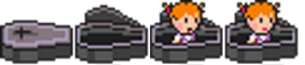
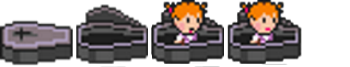
Updated Coffin Sprite.

diff --git a/hh-game/js/states/Preload.js b/hh-game/js/states/Preload.js
@@ -37,7 +37,7 @@ class Preload extends Phaser.State {
         this.game.load.spritesheet('blackhole', 'img/circle.png', 100, 100); 
         this.game.load.spritesheet('circle', 'img/circle.png', 100, 100);    
         this.game.load.spritesheet('axe', 'img/pickaxe_axe.png', 32, 64);
-        this.game.load.spritesheet('coffin', 'img/coffin2.png', 75, 67);
+        this.game.load.spritesheet('coffin', 'img/coffin.png', 75, 67);
         this.game.load.image('hole', 'img/hole.png');
 
         // NPCs
@@ -46,9 +46,6 @@ class Preload extends Phaser.State {
         this.game.load.image('monster', 'img/monster.png');
         this.game.load.spritesheet('ghost', 'img/ghost.png', 49,57);
 
-        //FloorTiles
-        this.game.load.tilemap('map', 'layouts/tilemap.json', null, Phaser.Tilemap.TILED_JSON);
-        this.game.load.image('tiles', 'img/woodFloor.png');
     }
 
     create() {
